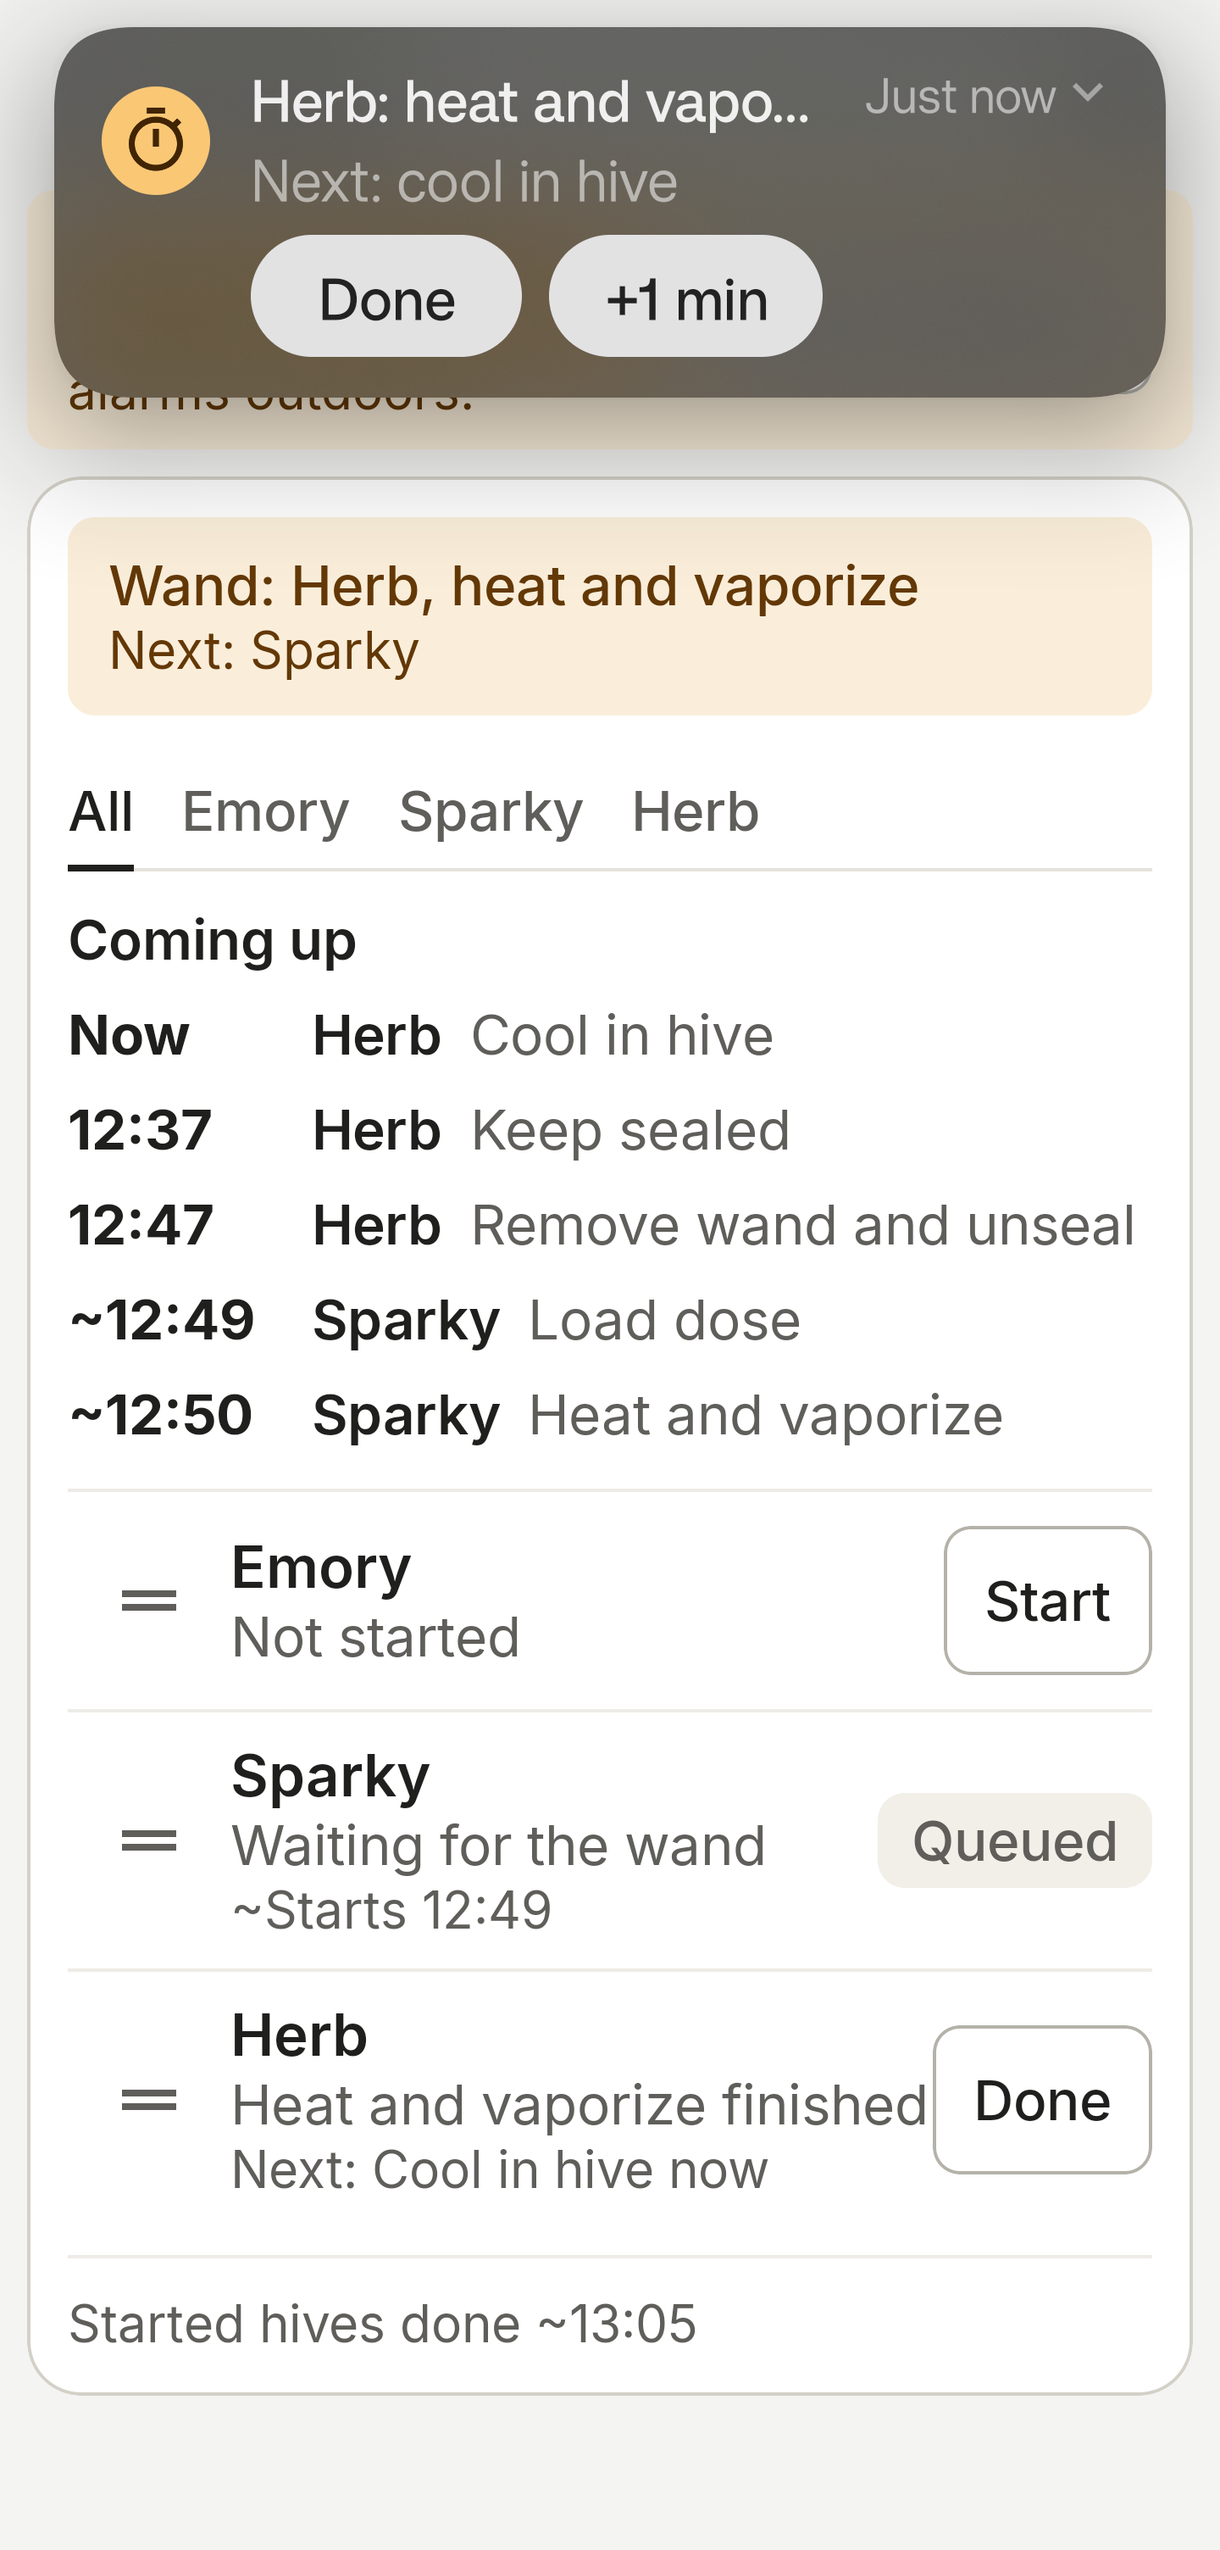
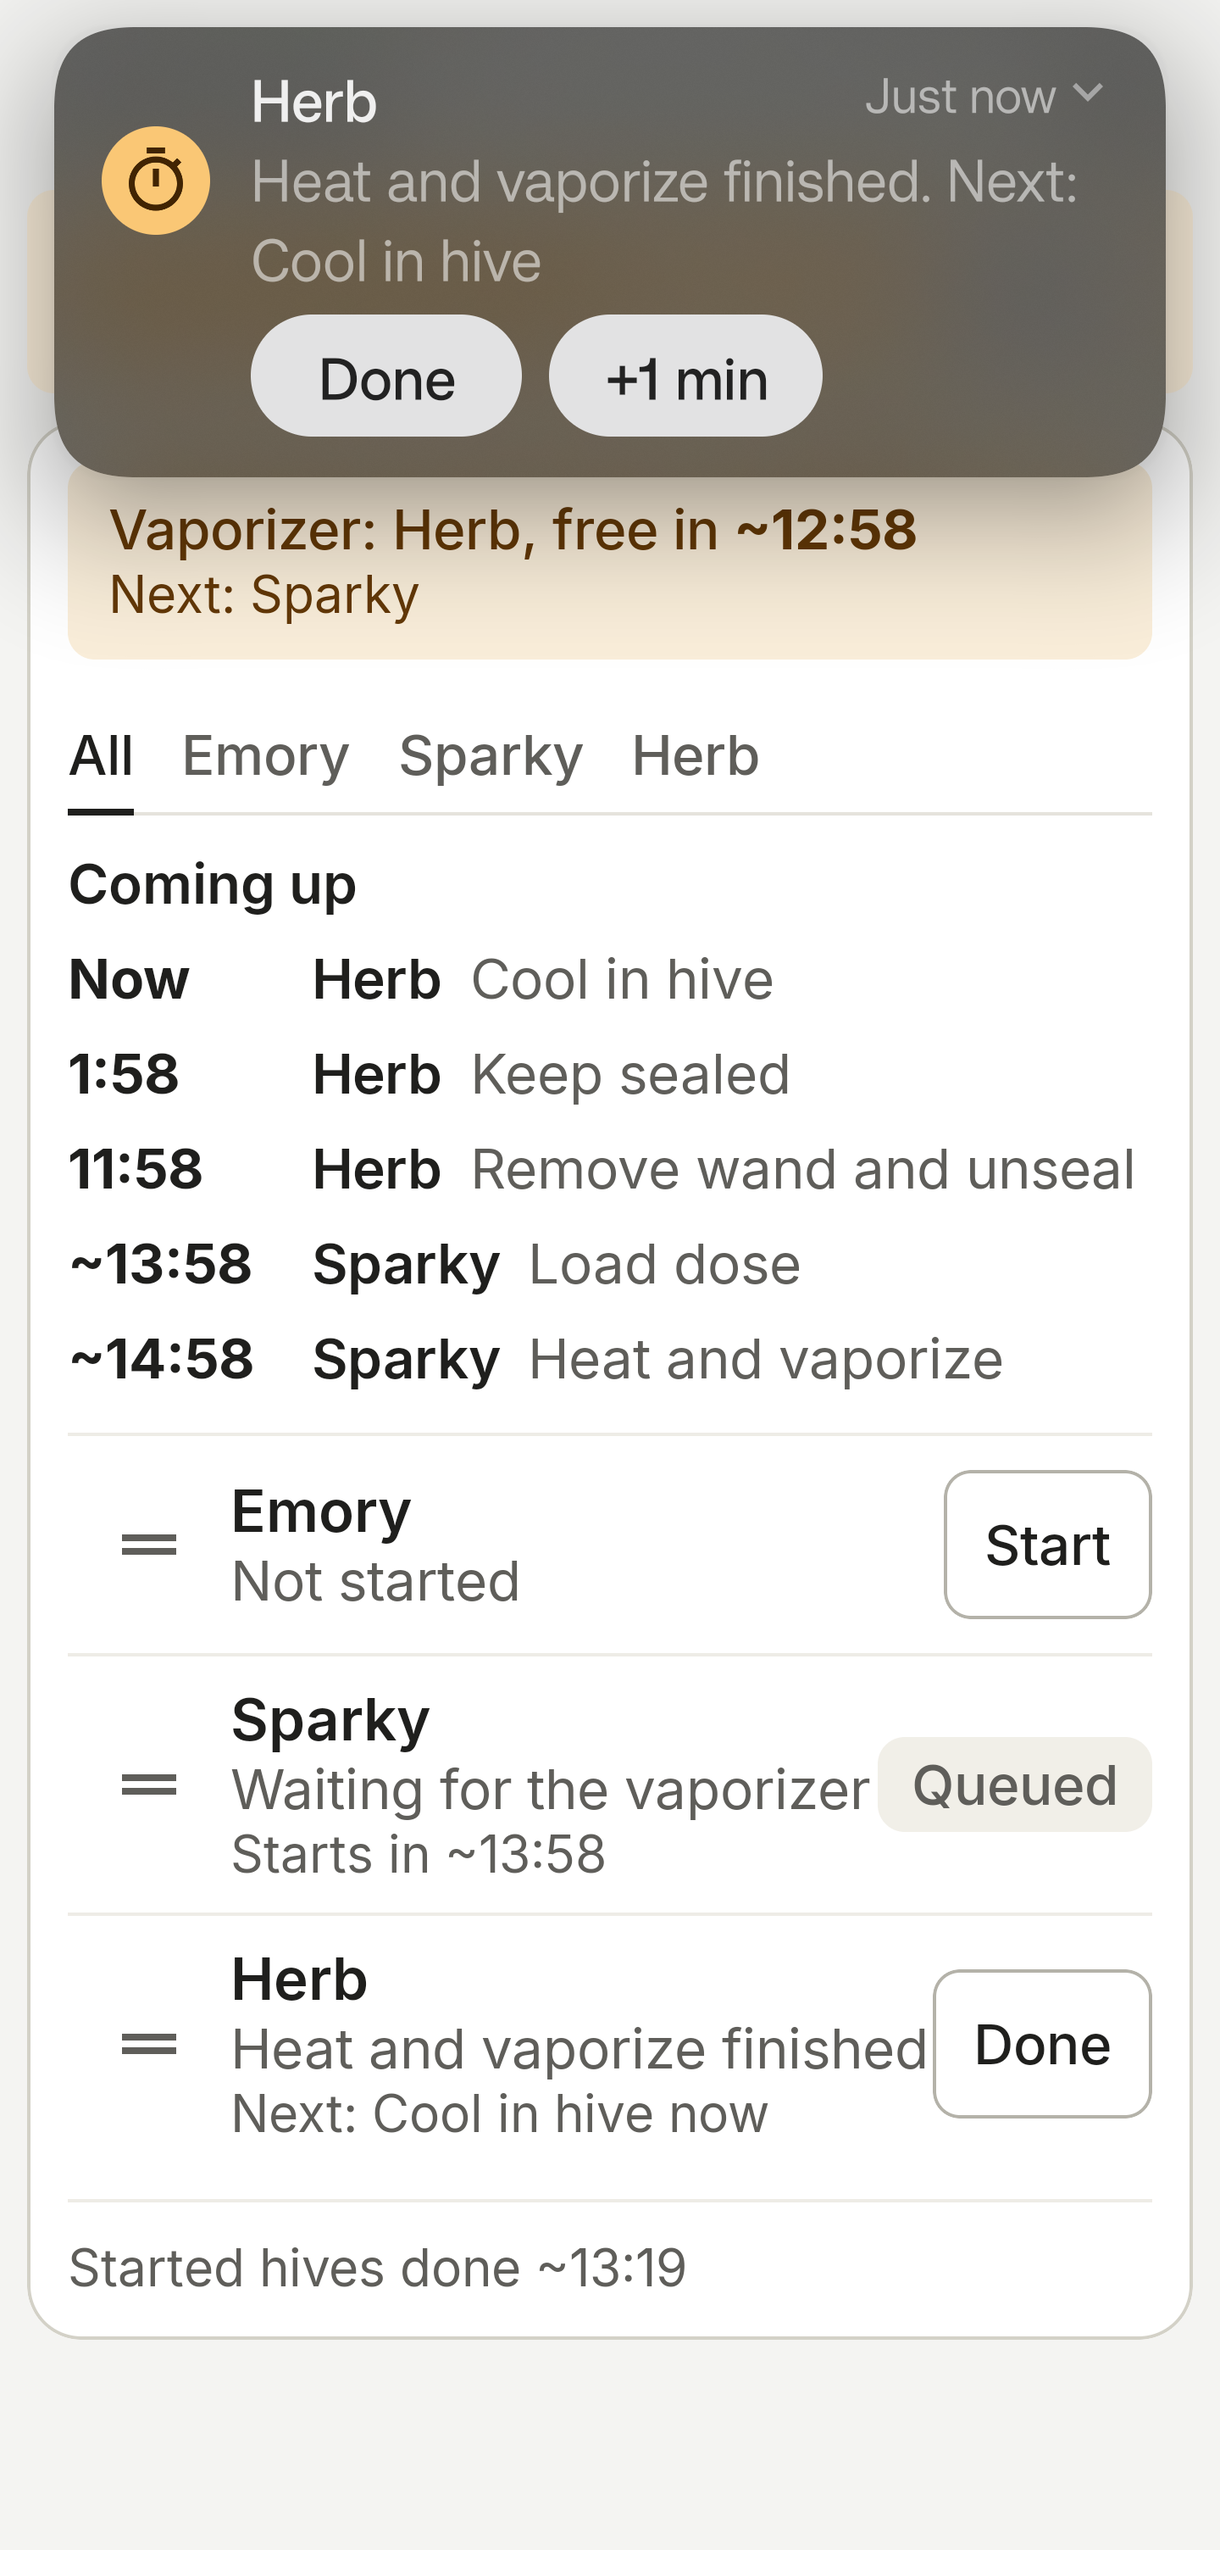
Cancel returns hive to Not started; Wand renamed Vaporizer in UI
- Cancelling a run removes it (Not started, Start button); restore drops
  runs saved as CANCELLED by older builds. Tests for both
- UI copy says Vaporizer (gun type has no wand); preset step names keep wand
- Re-captured app-1-all, app-1-all-large and app-6-headsup on this build

diff --git a/scheduler/src/test/kotlin/io/github/mecheng70/beetimer/scheduler/SchedulerTest.kt b/scheduler/src/test/kotlin/io/github/mecheng70/beetimer/scheduler/SchedulerTest.kt
@@ -105,7 +105,7 @@ class SchedulerTest {
         assertEquals(listOf(b, c), t.state.queue)
 
         val fx = t.send(Cancel(a))
-        assertEquals(CANCELLED, t.run(a).state)
+        assertEquals(NOT_STARTED, t.state.stateOf(a))
         assertNull(t.state.lockHolder)
         assertEquals(listOf(NotifyDeviceFree(b)), fx.filterIsInstance<NotifyDeviceFree>())
         assertEquals(listOf(b, c), t.state.queue)
@@ -126,7 +126,7 @@ class SchedulerTest {
         val t = Harness()
         listOf(a, b, c).forEach { t.send(Start(it)); t.send(Done(it)) }
         val fx = t.send(Cancel(b))
-        assertEquals(CANCELLED, t.run(b).state)
+        assertEquals(NOT_STARTED, t.state.stateOf(b))
         assertEquals(a, t.state.lockHolder)
         assertEquals(listOf(c), t.state.queue)
         assertTrue(fx.none { it is NotifyDeviceFree })
@@ -330,6 +330,26 @@ class SchedulerTest {
         t.assertAt(a, "Load dose", AWAITING_CONFIRM)
         t.send(Start(b))
         assertEquals(Presets.gunType.steps, t.run(b).steps)
+    }
+
+    @Test
+    fun cancel_returnsHiveToNotStartedWithNoRunLeft() {
+        val t = Harness()
+        t.send(Start(a)); t.send(Done(a)); t.send(Done(a)) // heating with the device
+        t.send(Cancel(a))
+        assertFalse(t.state.runs.containsKey(a))
+        assertEquals(NOT_STARTED, t.state.stateOf(a))
+        assertNull(t.alarms[a])
+        assertNull(t.state.lockHolder)
+    }
+
+    @Test
+    fun restore_dropsRunsSavedAsCancelledByOlderBuilds() {
+        val t = Harness()
+        t.send(Start(a))
+        val legacy = t.state.copy(runs = mapOf(a to t.run(a).copy(state = CANCELLED, completedAt = 0)))
+        val restored = t.scheduler.restore(legacy, 10 * SEC).state
+        assertEquals(NOT_STARTED, restored.stateOf(a))
     }
 
     @Test

diff --git a/scheduler/src/main/kotlin/io/github/mecheng70/beetimer/scheduler/Scheduler.kt b/scheduler/src/main/kotlin/io/github/mecheng70/beetimer/scheduler/Scheduler.kt
@@ -177,18 +177,14 @@ private class Reduction(var s: SchedulerState, val now: Long) {
         put(enterStep(clearRinging(run), run.currentStepIndex + 1))
     }
 
+    /** Cancel: release the device or queue spot and return the hive to Not started. */
     fun cancel(h: Long) {
         val run = s.runs[h] ?: return
         if (run.isTerminal) return
         releaseLock(h)
         dequeue(h)
-        put(
-            clearRinging(run).copy(
-                state = RunState.CANCELLED,
-                stepEndsAt = null,
-                completedAt = now,
-            ),
-        )
+        clearRinging(run)
+        s = s.copy(runs = s.runs - h)
     }
 
     fun queueSkipHead() {
@@ -214,6 +210,8 @@ private class Reduction(var s: SchedulerState, val now: Long) {
     }
 
     fun restore() {
+        // Runs saved as CANCELLED by older builds become Not started.
+        s = s.copy(runs = s.runs.filterValues { it.state != RunState.CANCELLED })
         s.runs.values.sortedBy { it.hiveId }.forEach { stale ->
             val run = s.runs.getValue(stale.hiveId)
             val ringing = run.ringing

diff --git a/app/src/main/java/io/github/mecheng70/beetimer/ui/MainScreen.kt b/app/src/main/java/io/github/mecheng70/beetimer/ui/MainScreen.kt
@@ -283,7 +283,6 @@ private fun subtitle(run: HiveRun?): String {
     val ringing = run?.ringing
     return when {
         run == null -> stringResource(R.string.state_not_started)
-        run.state == RunState.CANCELLED -> stringResource(R.string.state_cancelled)
         ringing != null && run.currentStepIndex == ringing.finishedStepIndex ->
             stringResource(R.string.state_finished, run.steps[ringing.finishedStepIndex].name)
         run.state == RunState.DONE -> stringResource(R.string.state_done)

diff --git a/app/src/main/java/io/github/mecheng70/beetimer/alarms/AlarmText.kt b/app/src/main/java/io/github/mecheng70/beetimer/alarms/AlarmText.kt
@@ -17,7 +17,7 @@ data class AlarmInfo(
     val nextAction: String,
     /** "10:00 timer starts when you tap Done" when the next step is timed and waits for Done. */
     val timerLine: String?,
-    /** "Wand frees when you tap Done. Sparky is next." when Done releases the wand. */
+    /** "Vaporizer frees when you tap Done. Sparky is next." when Done releases the vaporizer. */
     val deviceNote: String?,
 )
 

diff --git a/scheduler/src/main/kotlin/io/github/mecheng70/beetimer/scheduler/Model.kt b/scheduler/src/main/kotlin/io/github/mecheng70/beetimer/scheduler/Model.kt
@@ -73,6 +73,10 @@ data class Hive(
     val position: Int = 0,
 )
 
+/**
+ * CANCELLED is no longer produced: cancelling removes the run so the hive is Not started.
+ * It stays so state saved by older builds still loads; restore drops such runs.
+ */
 @Serializable
 enum class RunState { NOT_STARTED, WAITING_FOR_DEVICE, RUNNING, AWAITING_CONFIRM, DONE, CANCELLED }
 

diff --git a/docs/design/TECH-DESIGN.md b/docs/design/TECH-DESIGN.md
@@ -221,15 +221,17 @@ The mockups are the spec. Side-by-side captures: `docs/screenshots/` (mockup-*.p
 - **Font.** Inter (regular, medium, semibold, bold) bundled in `res/font`, licence in `assets/licenses/Inter-OFL.txt`, used for every text style so weights render the same on OnePlus and other phones.
 - **Chips.** Countdown and clock-time chips 15 sp bold, 10 x 4 dp padding, at least 28 dp tall; state chips (Device, Passive, Queued) 14 sp.
 - **Main screen.** Top bar: "Bee Timer" and a gear icon (48 dp, "Settings"). Low alarm volume banner ("Alarm volume is low", one line, with a Raise button to sound settings) while a run is active and the alarm stream is under 50%. Then one white card: wand bar, tab strip, and the All tab or a Hive tab. The page scrolls.
-- **All tab = planning view.** Wand bar on one line ("Wand: Herb, 0:36 left", ellipsized, never wraps) with "Next: Sparky" under it (queue head, else the next not-started hive in list order). "Coming up": the next 5 step starts across hives from `Planner.forecast` ("12:14  Emory  Remove wand and unseal"); times after a manual step or a queued start are estimates, prefixed "~". Hive rows have a drag handle (long-press), name, current step with countdown chip, and "Next: <step> ~12:20" ("~Starts 12:30" when queued). Coming up and the row lines show time remaining ("2:10", "~14:09", "Next: Cool in hive in 2:10", "Starts in ~15:09"); the wand bar shows "Wand: Herb, free in ~15:09". "~" means it depends on a manual tap. Projected times are computed only when the state changes; the countdowns tick from them, and a passed one shows "now". Only the footer is a clock time, "Started hives done ~1:05 PM", in the phone's 12/24-hour format. Not-started hives are not projected.
-- **Planner** (`scheduler/Planner.kt`, pure): runs the real reducer forward with a simulated person (timers on time, timed-to-timed acknowledged at once, manual steps 1 min, handoff 1 min, not-started hives started in list order when the wand is free, the queue empty and nobody is heading for it). Tested in `PlannerTest`.
+- **All tab = planning view.** Vaporizer bar on one line (ellipsized, never wraps) with "Next: Sparky" under it (queue head, else the next not-started hive in list order). "Coming up": the next 5 step starts across hives from `Planner.forecast` ("12:14  Emory  Remove wand and unseal"); times after a manual step or a queued start are estimates, prefixed "~". Hive rows have a drag handle (long-press), name, current step with countdown chip, and "Next: <step> ~12:20" ("~Starts 12:30" when queued). Coming up and the row lines show time remaining ("2:10", "~14:09", "Next: Cool in hive in 2:10", "Starts in ~15:09"); the vaporizer bar shows "Vaporizer: Herb, free in ~15:09". "~" means it depends on a manual tap. Projected times are computed only when the state changes; the countdowns tick from them, and a passed one shows "now". Only the footer is a clock time, "Started hives done ~1:05 PM", in the phone's 12/24-hour format. Not-started hives are not projected.
+- **Planner** (`scheduler/Planner.kt`, pure): runs the real reducer forward with a simulated person (timers on time, timed-to-timed acknowledged at once, manual steps 1 min, handoff 1 min, not-started hives are not projected). Tested in `PlannerTest`.
+- **Wording.** UI copy says "Vaporizer" (the gun type has no wand); preset step names keep "wand".
+- **Cancel** removes the run, so the hive is Not started with a Start button again (no Cancelled state).
 - **Hive order** is the treatment order: drag on the All tab or in Settings, saved as `position` in Room.
-- **Wand free.** When the wand is free for the queue head: "Wand free: Sparky is next" with Start, Skip to back and Remove.
+- **Vaporizer free.** When the vaporizer is free for the queue head: "Vaporizer free: Sparky is next" with Start, Skip to back and Remove.
 - **Hive tab.** "Step 3 of 7, heat and vaporize", 52 sp countdown, instruction. Step list with ticks and Device / Passive chips; the current step is tinted with the strong chip. Action grid, then Cancel run.
 - **Settings.** Top app bar with a back arrow (48 dp, "Back"); system back also returns. Cards: Steps, Hives, Display, Alerts, Session.
 - **Step editor.** Tap a step to edit its name and (timed) duration, tap its chip to switch device and passive, arrows to move it. Saved while valid; a split device block shows inline ("Not saved") with Undo. Reset to defaults. Active runs keep their snapshot.
 - **Hive list.** Drag handle, tap to rename, trash icon with confirm, "+ Add hive" (adds one and opens its name), at most `Repository.MAX_HIVES` = 5 ("5 hives max per session"). Names persist across sessions (`HivesAndSessionTest`).
-- **Alarm screen.** Hive name 48 sp bold, "Cool in hive finished" 16 sp, divider, "Next" 14 sp, the next step 26 sp (2 lines max), "10:00 timer starts when you tap Done" for a timed next step, wand note 14 sp; spread over the space above Done (64 dp) and +1 min / Snooze 30 s (64 dp).
+- **Alarm screen.** Hive name 48 sp bold, "Cool in hive finished" 16 sp, divider, "Next" 14 sp, the next step 26 sp (2 lines max), "10:00 timer starts when you tap Done" for a timed next step, vaporizer note 14 sp; spread over the space above Done (64 dp) and +1 min / Snooze 30 s (64 dp).
 - **Heads-up** (unlocked): title is the hive name ("Herb") so it never truncates; body "Heat and vaporize finished. Next: Cool in hive" (BigText); actions Done and +1 min.
 - **Theme.** System, Light or Dark (default System). The alarm screen is dark amber in both. Window themes set `forceDarkAllowed=false`: the app draws its own dark theme, and OxygenOS otherwise recolored the alarm window (found in the screenshot pass).
 

diff --git a/docs/screenshots/README.md b/docs/screenshots/README.md
@@ -4,24 +4,16 @@ Captured 2026-11-21 on a OnePlus CPH2583 (Android 16, 360 dp wide, font scale 1.
 
 | File | What it shows |
 |---|---|
-| `app-1-all.png` | All tab as the planning view. Herb holds the wand (heating), Sparky is queued, Emory is not started. Shows the low alarm volume banner, the wand bar, Coming up, the hive rows with next times and drag handles, and the "Started hives done" footer. |
-| `app-1-all-large.png` | Same screen at font scale 1.3. Nothing clips or overlaps: long step names end in "...", and the banner wraps to four lines. |
-| `app-2-hive.png` | Herb's tab: 52 sp countdown, the corrected 6-step pan wand (Keep sealed holds the device), and the 56 dp action grid. |
+| `app-1-all.png` | All tab as the planning view (current build). Herb holds the vaporizer (heating), Sparky is queued, Emory is not started. One-line volume banner with Raise; "Vaporizer: Herb, free in ~15:17"; Coming up as countdowns ("2:17", "~16:17"); rows with "Next: Cool in hive in 2:17" and "Starts in ~16:17"; footer "Started hives done ~13:19" (the phone is set to 24-hour). |
+| `app-1-all-large.png` | Same screen at font scale 1.3 (current build). Nothing clips or overlaps; long text ends in "...". |
+| `app-2-hive.png` | Herb's tab: 52 sp countdown, the 6-step pan wand (Keep sealed holds the device), and the 56 dp action grid. Captured before the "Wand" to "Vaporizer" rename; the bar reads "Wand: Herb, 2:02 left". |
 | `app-3-alarm.png` | Alarm screen for Herb's heat step: name, finished line, divider, Next, "Cool in hive", "2:00 timer starts when you tap Done", and 64 dp buttons at the bottom. |
 | `app-4-template.png` | Step editor: preset toggle, tap a step to edit name and duration, tap the chip to switch device and passive, up and down arrows, Reset to defaults, footer. |
 | `app-5-settings-hives.png` | Hives card (drag handle, tap to rename, trash), "+ Add hive", Display, Alerts and Session. Back-arrow top bar. |
-| `app-6-headsup.png` | Heads-up while unlocked: "Herb: heat and vaporize finished" with "Next: cool in hive" and the Done and +1 min actions. Behind it, Coming up shows "Now" for the passed 12:35. |
-
-## Changed after these captures (not re-captured)
-
-- The All tab shows time remaining instead of clock times ("~14:09", "Next: Cool in hive in 2:10", "Starts in ~15:09", "Wand: Herb, free in ~15:09"). Only the footer is a clock time.
-- The heads-up title is now the hive name ("Herb"), with the body "Heat and vaporize finished. Next: Cool in hive". This resolves note 1.
-- The volume banner reads "Alarm volume is low" with a Raise button, on one line. This resolves note 4.
+| `app-6-headsup.png` | Heads-up while unlocked (current build): title "Herb", body "Heat and vaporize finished. Next: Cool in hive", Done and +1 min. Behind it, Coming up shows "Now" for Cool in hive. |
 
 ## Notes
 
-1. **The heads-up title truncates while collapsed** ("Herb: heat and vapo..."). Android shows heads-ups collapsed, and the BigText style only applies once the notification is expanded (swiping down shows the full text). If the full title must show collapsed, a shorter title such as the hive name alone, with the finished step moved into the body, would fit. That needs your call, since it changes the copy you specified.
-2. **Alarm screen colors.** The app draws #412402 and #FAEEDA, and an earlier capture measured exactly #412402. This capture reads about 3% off (#3F230A; Done #EDE2DC). The main screen samples exactly at the same moment (#F4F4F2, wand bar #FAEEDA), so this looks like OxygenOS display processing of dark content, not the app. Forced dark is still opted out.
-3. **Clock format.** Times follow the phone's 12 or 24-hour setting. This phone is set to 24-hour, so the footer reads "~13:05" rather than "1:05 PM".
-4. **The volume banner** is one message, but it wraps to three lines at 1.15 and four at 1.3 with the requested copy.
-5. **Hive 4** isn't in these captures because you deleted it.
+1. **Alarm screen colors** in `app-3-alarm.png` read about 3% off (OxygenOS display processing of dark content). You chose to ignore this.
+2. **Clock format.** The footer follows the phone's 12/24-hour setting. This phone is set to 24-hour, so it reads "~13:19"; with 12-hour it reads "~1:19 PM".
+3. **Cancel** now returns a hive to Not started with a Start button, so no "Cancelled" rows appear.
